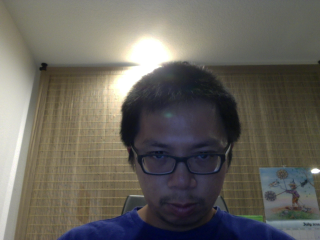
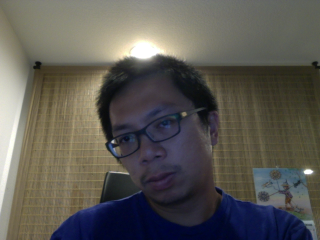
add face recog for caller too for some reason is one image behind

diff --git a/demos/demo_video_only.html b/demos/demo_video_only.html
@@ -257,7 +257,7 @@
                                 this.parentElement.classList.add('img-error')
                             }
 
-                            function sendEvent(context, video, canvas, filename, resultingfilepath) {
+                            function sendEvent(context, video, canvas, filename, resultingfilepath, imageElem) {
                                 context.drawImage(video, 0, 0, 320, 240);
 
                                 var image = convertCanvasToImage(canvas);
@@ -285,7 +285,7 @@
 //                                                console.info("resetting the source ... :)")
 
                                                 d = new Date();
-                                                $('#selfImage').attr("src", sDetect.src + "?" + d.getTime());
+                                                imageElem.attr("src", sDetect.src + "?" + d.getTime());
 
                                                 //canvas.width = canvas.width;
                                                 //context.clearRect(0, 0, canvas.width, canvas.height);
@@ -372,7 +372,7 @@
                                 // Trigger photo take
                                 document.getElementById("selfSnap").addEventListener("click", function () {
 
-                                    sendEvent(selfContext, selfVideo, selfCanvas, "localSnap.png", "latest/localSnap.png");
+                                    sendEvent(selfContext, selfVideo, selfCanvas, "localSnap.png", "latest/localSnap.png", $('#selfImage'));
 
 //                                    ////////////////////////////////////////////////////////////////////////////////////
 //                                    selfContext.drawImage(selfVideo, 0, 0, 320, 240);
@@ -386,7 +386,7 @@
 
                                 $('#selfDetect').click(function(){
 
-                                    sendEvent(selfContext, selfVideo, selfCanvas, "localDetect.png", "latest/localDetect.png");
+                                    sendEvent(selfContext, selfVideo, selfCanvas, "localDetect.png", "latest/localDetect.png", $('#selfImage'));
 
 //                                    selfContext.drawImage(selfVideo, 0, 0, 320, 240);
 //
@@ -437,14 +437,14 @@
 
                                 $('#selfRecognize').click(function(){
 
-                                    sendEvent(selfContext, selfVideo, selfCanvas, "localRecognize.png", "latest/localRecognize.png");
+                                    sendEvent(selfContext, selfVideo, selfCanvas, "localRecognize.png", "latest/localRecognize.png", $('#selfImage'));
 
 //                                    selfContext.drawImage(selfVideo, 0, 0, 320, 240);
                                 })
 
                                 document.getElementById("callerSnap").addEventListener("click", function () {
 
-                                    sendEvent(callerContext, callerVideo, callerCanvas, "remoteSnap.png", "latest/remoteSnap.png");
+                                    sendEvent(callerContext, callerVideo, callerCanvas, "remoteSnap.png", "latest/remoteSnap.png", $('#callerImage'));
 
 //                                    ////////////////////////////////////////////////////////////////////////////////////
 //                                    callerContext.drawImage(callerVideo, 0, 0, 320, 240);
@@ -458,14 +458,14 @@
 
                                 $('#callerDetect').click(function(){
 
-                                    sendEvent(callerContext, callerVideo, callerCanvas, "remoteDetect.png", "latest/remoteDetect.png");
+                                    sendEvent(callerContext, callerVideo, callerCanvas, "remoteDetect.png", "latest/remoteDetect.png", $('#callerImage'));
 
                                     //document.getElementById('callerJson').innerHTML = 'RESPONSE';
                                 })
 
                                 $('#callerRecognize').click(function(){
 
-                                    sendEvent(callerContext, callerVideo, callerCanvas, "remoteRecognize.png", "latest/remoteRecognize.png");
+                                    sendEvent(callerContext, callerVideo, callerCanvas, "remoteRecognize.png", "latest/remoteRecognize.png", $('#callerImage'));
 
                                     //callerContext.drawImage(callerVideo, 0, 0, 320, 240);
                                 })
